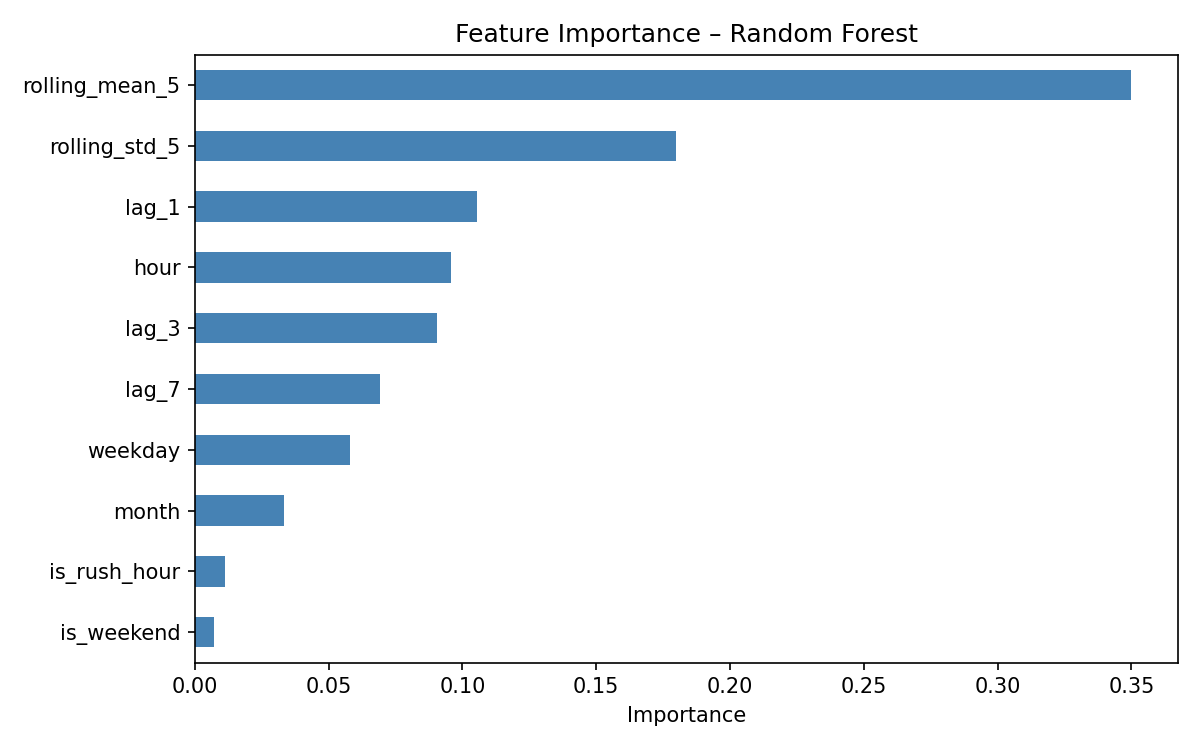
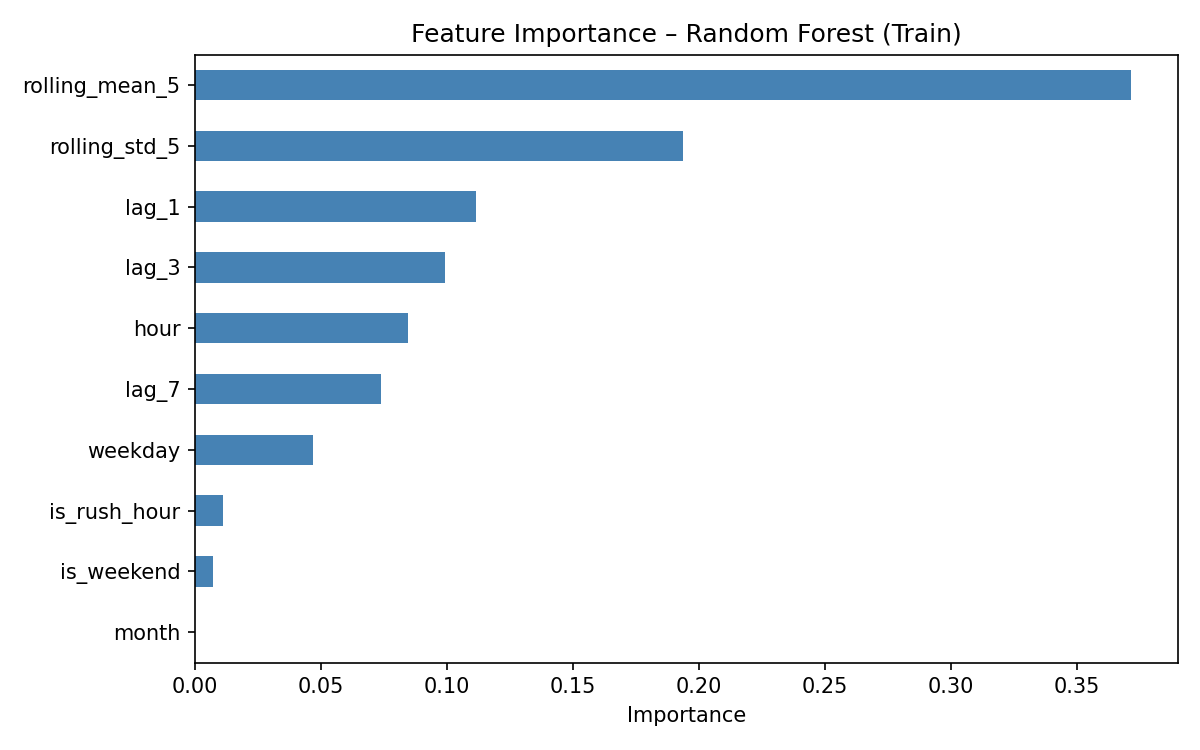
docs: add real holdout/CV metrics to README and MAX_ROWS option for reproducible runs

diff --git a/main.py b/main.py
@@ -5,6 +5,10 @@ from pathlib import Path
 
 sys.path.append("src")
 
+# Optional: cap rows for faster local runs (same pipeline). Example: MAX_ROWS=400000
+_MAX = os.environ.get("MAX_ROWS")
+MAX_ROWS = int(_MAX) if _MAX and _MAX.isdigit() else None
+
 from features import (
     FEATURE_COLS,
     TARGET_COL,
@@ -33,7 +37,9 @@ print("=== DB Delay Forecaster ===\n")
 
 paths = sorted(glob.glob(str(ROOT / "data/raw/monthly_processed_data/*.parquet")))
 print(f"Lade {len(paths)} Dateien...")
-df = build_features(paths)
+if MAX_ROWS is not None:
+    print(f"(MAX_ROWS={MAX_ROWS:,} — voller Lauf ohne diese Variable)\n")
+df = build_features(paths, max_rows=MAX_ROWS)
 print(f"Features gebaut: {df.shape[0]:,} Zeilen\n")
 
 train_df, test_df = temporal_train_test_split(

diff --git a/README.md b/README.md
@@ -4,17 +4,19 @@
 
 ## Results (holdout, time-ordered test split)
 
-Example run using the same pipeline as `main.py`, with `build_features(..., max_rows=400000)` to fix a reproducible slice (full-data metrics are similar but not identical).
+Measured with **`python main.py`** using **`MAX_ROWS=400000`** (same code path as a full run; caps rows so training finishes in reasonable time on a laptop). Data: Parquet months **2024-09, 2024-10, 2024-11** from [piebro/deutsche-bahn-data](https://huggingface.co/datasets/piebro/deutsche-bahn-data). Omit `MAX_ROWS` to use all loaded rows.
 
 | Model | MAE (min) | RMSE (min) | R² |
 | --- | ---: | ---: | ---: |
-| Baseline (mean) | 4.53 | 9.96 | −0.00 |
-| Baseline (lag-1) | 5.42 | 13.46 | −0.83 |
-| LinearRegression | 3.55 | 7.89 | 0.37 |
-| RandomForest | 3.60 | 8.15 | 0.33 |
-| HistGradientBoosting | 3.61 | 7.97 | 0.36 |
+| Baseline (mean) | 4.531 | 9.960 | −0.002 |
+| Baseline (lag-1) | 5.416 | 13.456 | −0.828 |
+| LinearRegression | 3.547 | 7.891 | 0.371 |
+| RandomForest | 3.600 | 8.152 | 0.329 |
+| HistGradientBoosting | 3.612 | 7.971 | 0.358 |
 
-vs. mean-only baseline, best ML model (LinearRegression here): **~22% lower MAE** on this slice.
+vs. mean-only baseline, best ML model (**LinearRegression**): **21.7% lower MAE** on this run.
+
+**CV on train only** (TimeSeriesSplit, `k=5`; MAE in minutes): LinearRegression **3.328** ±0.360, RandomForest **3.357** ±0.378, HistGradientBoosting **3.395** ±0.372, Baseline (mean) **4.261** ±0.385.
 
 ### Plots (in repo)
 
@@ -91,9 +93,9 @@ After `main.py`, you get holdout **MAE / RMSE / R²**, two **naive baselines** (
 - **Hour / rush hour** often matter: load peaks and knock-on delays.
 - If **RandomForest** beats **linear** models, there are **nonlinear** interactions; if scores are close, the problem may be **mostly linear** after features.
 
-See **Results** above for a filled example; `main.py` prints fresh numbers for your data.
+See **Results** above for measured numbers; `main.py` prints fresh metrics for your data and Parquet files.
 
-- Example (400k-row slice): best ML MAE ≈ **3.55 min**; **~22%** lower MAE than mean baseline.
+- Same run as the table: best ML MAE **3.547 min**; **21.7%** lower MAE than mean baseline.
 
 ---
 
@@ -112,7 +114,7 @@ Nach `main.py` gibt es Holdout-Metriken, **zwei naive Baselines** und die ML-Mod
 - **Stunde / Rush Hour** zeigen oft Last und Folgeverspätungen.
 - Wenn **RandomForest** klar besser ist als **LinearRegression**, spielen **nichtlineare** Effekte mit; bei ähnlichen Scores dominiert oft ein **lineares** Signal nach Feature-Aufbereitung.
 
-Siehe **Results** oben. Beispiel (400k-Zeilen-Slice): bestes ML-Modell hier **LinearRegression**, MAE ≈ **3,55 min**; **~22 %** weniger MAE als Mean-Baseline. Vollständiger Lauf: Werte aus `main.py` übernehmen.
+Siehe **Results** oben. Derselbe Lauf: bestes ML-Modell **LinearRegression**, MAE **3,547 min**; **21,7 %** weniger MAE als Mean-Baseline. Für neue Zahlen: `main.py` ausführen (optional `MAX_ROWS` setzen, siehe Tabelle).
 
 ---
 
@@ -135,7 +137,7 @@ python eda.py
 python main.py
 ```
 
-You get tables in the terminal (including baselines) and plots under `outputs/plots/`.
+You get tables in the terminal (including baselines) and plots under `outputs/plots/`. To reproduce the **Results** numbers: `MAX_ROWS=400000 python main.py` (after `download.py`). Omit `MAX_ROWS` to use all rows (slower; same pipeline).
 
 ### Example: one prediction (`model.predict`)
 
@@ -193,7 +195,7 @@ python eda.py
 python main.py
 ```
 
-Ausgabe: Metriken inkl. Baselines im Terminal, Grafiken unter `outputs/plots/`.
+Ausgabe: Metriken inkl. Baselines im Terminal, Grafiken unter `outputs/plots/`. **Results** nachstellen: `MAX_ROWS=400000 python main.py` (nach `download.py`). Ohne `MAX_ROWS`: alle Zeilen (langsamer, gleiche Pipeline).
 
 ### Beispiel: eine Vorhersage (`model.predict`)
 
